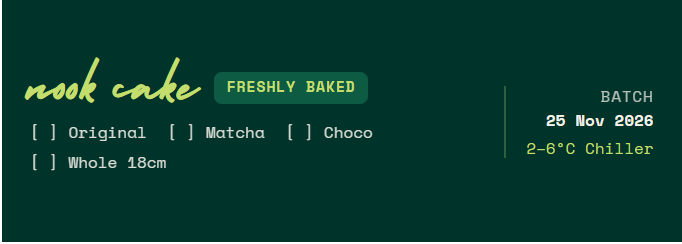
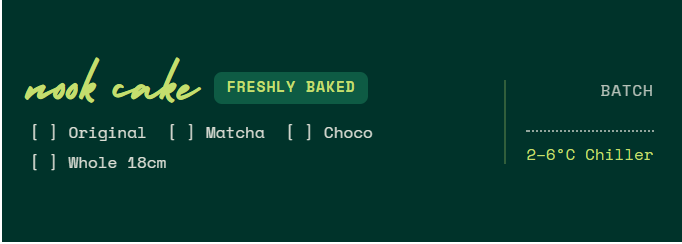
Update print page and print assets

Changed region(s): [[0.7698, 0.5738, 0.9545, 0.6598], [0.7698, 0.459, 0.9545, 0.5451], [0.8622, 0.3443, 0.9545, 0.4303]]

diff --git a/src/app/print/page.tsx b/src/app/print/page.tsx
@@ -162,8 +162,8 @@ export default function PrintStudioPage() {
             <div className="space-y-4">
               {/* Row 1: 2x Care Card (9x9 cm) */}
               <div className="grid grid-cols-2 gap-3 justify-items-center">
-                <CareCard batchDate={batchDate} isEco={isEco} crop={showCropMarks} />
-                <CareCard batchDate={batchDate} isEco={isEco} crop={showCropMarks} />
+                <CareCard isEco={isEco} crop={showCropMarks} />
+                <CareCard isEco={isEco} crop={showCropMarks} />
               </div>
 
               {/* Row 2: 2x Thank You Card (9x9 cm) */}
@@ -192,10 +192,10 @@ export default function PrintStudioPage() {
 
               {/* Row 4: 4x Box Seal Stickers */}
               <div className="grid grid-cols-2 gap-3 justify-items-center">
-                <BoxSealSticker batchDate={batchDate} isEco={isEco} crop={showCropMarks} />
-                <BoxSealSticker batchDate={batchDate} isEco={isEco} crop={showCropMarks} />
-                <BoxSealSticker batchDate={batchDate} isEco={isEco} crop={showCropMarks} />
-                <BoxSealSticker batchDate={batchDate} isEco={isEco} crop={showCropMarks} />
+                <BoxSealSticker isEco={isEco} crop={showCropMarks} />
+                <BoxSealSticker isEco={isEco} crop={showCropMarks} />
+                <BoxSealSticker isEco={isEco} crop={showCropMarks} />
+                <BoxSealSticker isEco={isEco} crop={showCropMarks} />
               </div>
             </div>
           )}
@@ -203,7 +203,7 @@ export default function PrintStudioPage() {
           {sheetMode === "care" && (
             <div className="grid grid-cols-2 gap-4 justify-items-center">
               {Array.from({ length: 6 }).map((_, i) => (
-                <CareCard key={i} batchDate={batchDate} isEco={isEco} crop={showCropMarks} />
+                <CareCard key={i} isEco={isEco} crop={showCropMarks} />
               ))}
             </div>
           )}
@@ -236,7 +236,6 @@ export default function PrintStudioPage() {
               {Array.from({ length: 10 }).map((_, i) => (
                 <BoxSealSticker
                   key={i}
-                  batchDate={batchDate}
                   isEco={isEco}
                   crop={showCropMarks}
                 />
@@ -261,11 +260,9 @@ export default function PrintStudioPage() {
    1. CARE CARD (90mm x 90mm — Pas di dalam Box Bento 10 cm)
    ============================================================================ */
 function CareCard({
-  batchDate,
   isEco,
   crop,
 }: {
-  batchDate: string;
   isEco: boolean;
   crop: boolean;
 }) {
@@ -340,8 +337,9 @@ function CareCard({
           <p className="font-bold text-[#00332A]">
             Tanpa pengawet · Tahan 4–5 hari di chiller
           </p>
-          <p className="text-[#687E6C] mt-0.5">
-            Dipanggang: <span className="font-bold text-[#00332A]">{batchDate}</span>
+          <p className="text-[#687E6C] mt-1 flex items-end gap-1">
+            <span>Dipanggang:</span>
+            <span className="inline-block w-24 border-b border-dotted border-[#687E6C]/80" />
           </p>
         </div>
         <span className="font-holiday text-xl leading-none text-[#0E5B44] shrink-0">
@@ -497,11 +495,9 @@ function GiftNoteCard({
    4. BOX SEAL / BELLY BAND STICKER (90mm x 32mm)
    ============================================================================ */
 function BoxSealSticker({
-  batchDate,
   isEco,
   crop,
 }: {
-  batchDate: string;
   isEco: boolean;
   crop: boolean;
 }) {
@@ -546,8 +542,12 @@ function BoxSealSticker({
         }`}
       >
         <p className="uppercase tracking-wider opacity-75">Batch</p>
-        <p className="font-bold mt-0.5">{batchDate}</p>
-        <p className={`mt-1 ${isEco ? "text-[#0E5B44]" : "text-[#C4DE6E]"}`}>
+        <div
+          className={`w-16 h-3.5 mt-0.5 ml-auto border-b border-dotted ${
+            isEco ? "border-[#00332A]/60" : "border-[#F4F1E8]/60"
+          }`}
+        />
+        <p className={`mt-1.5 ${isEco ? "text-[#0E5B44]" : "text-[#C4DE6E]"}`}>
           2–6°C Chiller
         </p>
       </div>

diff --git a/next-env.d.ts b/next-env.d.ts
@@ -1,6 +1,6 @@
 /// <reference types="next" />
 /// <reference types="next/image-types/global" />
-/// <reference path="./.next/types/routes.d.ts" />
+/// <reference path="./.next-development/types/routes.d.ts" />
 
 // NOTE: This file should not be edited
 // see https://nextjs.org/docs/app/api-reference/config/typescript for more information.
